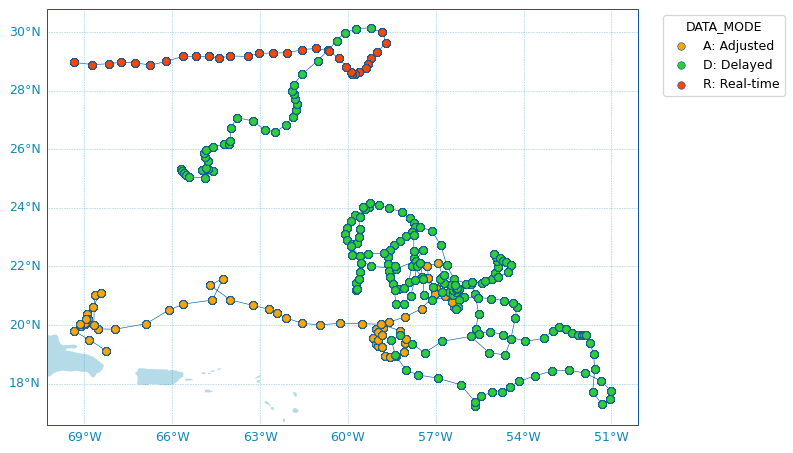
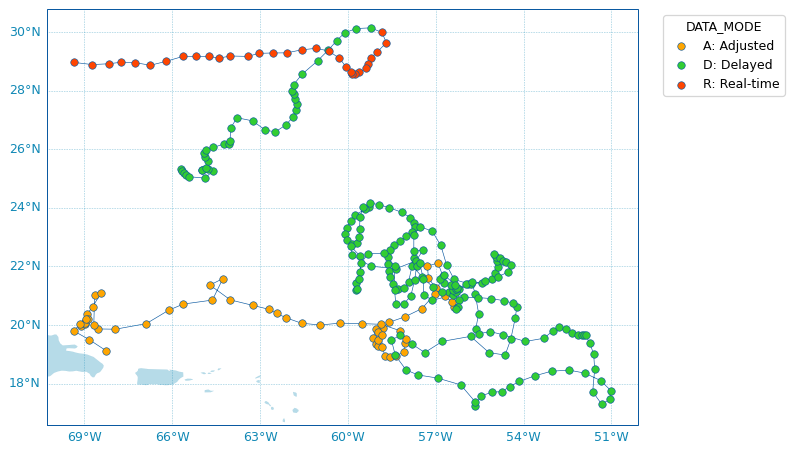
More doc

diff --git a/argopy/plot/plot.py b/argopy/plot/plot.py
@@ -315,12 +315,13 @@ def scatter_map(
         from argopy import DataFetcher
 
         ArgoSet = DataFetcher(mode='expert').float([6902771, 4903348]).load()
-        ds = ArgoSet.data
+        ds = ArgoSet.data.argo.point2profile()
         df = ArgoSet.index
 
         scatter_map(df)
-        scatter_map(ds, hue='DATA_MODE', traj_axis='PLATFORM_NUMBER')
-        scatter_map(ds, hue='PLATFORM_NUMBER', traj_axis='PLATFORM_NUMBER')
+        scatter_map(ds)
+        scatter_map(ds, hue='DATA_MODE')
+        scatter_map(ds, hue='PSAL_QC')
 
     ::
 
@@ -491,7 +492,7 @@ def scatter_map(
             'edgecolor': markeredgecolor,
             'linewidths': markeredgesize,
         }
-        if isinstance(data, pd.DataFrame):
+        if isinstance(data, pd.DataFrame) and not legend:
             scatter_opts['legend'] = False  # otherwise Pandas will add a legend even if we set legend=False
         sc = group.plot.scatter(
             x=x, y=y,

diff --git a/argopy/__init__.py b/argopy/__init__.py
@@ -28,6 +28,7 @@ from . import stores  # noqa: E402
 from . import errors  # noqa: E402
 from . import plot  # noqa: E402
 from .plot import dashboard  # noqa: E402
+from .plot import ArgoColors  # noqa: E402
 from .utilities import show_versions, show_options, clear_cache, lscache # noqa: E402
 from .utilities import TopoFetcher, ArgoNVSReferenceTables, OceanOPSDeployments  # noqa: E402
 from .utilities import monitor_status as status  # noqa: E402
@@ -55,6 +56,7 @@ __all__ = (
     "utilities",
     "errors",
     "plot",
+    "ArgoColors",
     # "plotters",  # Deprec, to be removed after 0.1.13
     "stores",
     "tutorial",

diff --git a/docs/conf.py b/docs/conf.py
@@ -134,7 +134,7 @@ release = argopy.__version__
 # This patterns also effect to html_static_path and html_extra_path
 exclude_patterns = ['_build', 'Thumbs.db', '.DS_Store', '_templates',
                     '.ipynb_checkpoints', '_ext', 'tempo_out', '_src',
-                    'offline', 'examples/.ipynb_checkpoints']
+                    'offline', 'examples/.ipynb_checkpoints', 'tryit.ipynb']
 
 # Give *lots* of time for notebook cell execution!
 # Note nbsphinx compiles *all* notebooks in docs unless excluded

diff --git a/docs/visualisation.rst b/docs/visualisation.rst
@@ -153,16 +153,20 @@ The :class:`argopy.plot.scatter_map` utility function is dedicated to making map
 
 Profiles colouring is finely tuned for some variables: QC flags, Data Mode and Deployment Status. By default, floats trajectories are always shown, but if the WMO is not given by a default wmo variable, it must be given as argument. The :class:`argopy.plot.scatter_map` function works with **argopy** :class:`xarray.Dataset` or :class:`pandas.DataFrame` data.
 
-Let's import this function, the usual suspects and some data to work with:
+Let's import this function, the usual suspects and some data to work with. Note that scatter_map is only available to a collection of profiles:
 
 .. code-block:: python
 
     from argopy.plot import scatter_map
     from argopy import DataFetcher as ArgoDataFetcher
+    from argopy import OceanOPSDeployments
 
     ArgoSet = ArgoDataFetcher(mode='expert').float([6902771, 4903348]).load()
-    ds = ArgoSet.data
+    ds = ArgoSet.data.argo.point2profiles()
     df = ArgoSet.index
+
+    df_deployment = OceanOPSDeployments([-90, 0, 0, 90]).to_dataframe()
+
 
 And see in the examples below how it can be used and tuned.
 
@@ -170,23 +174,57 @@ Use predefined Argo Colors
 ==========================
 The :class:`argopy.plot.scatter_map` function uses the :class:`argopy.plot.ArgoColors` utility class to better resolve discrete colormaps of known variables. The colormap is automatically guessed using the ``hue`` argument. Here are some examples.
 
-Parameter Data Mode
--------------------
+.. tabs::
 
-.. code-block:: python
+    .. tab:: Parameter Data Mode
 
-    scatter_map(ds, hue='DATA_MODE')
-    # scatter_map(ds, hue='DATA_MODE', traj_axis='PLATFORM_NUMBER', cmap='data_mode')
+        Using guess mode for arguments:
 
-.. image:: _static/scatter_map_datamode.png
+        .. code-block:: python
+
+            scatter_map(ds, hue='DATA_MODE')
+
+        or more explicitly:
+
+        .. code-block:: python
+
+            scatter_map(ds,
+                        x='LONGITUDE',
+                        y='LATITUDE',
+                        hue='DATA_MODE',
+                        cmap='data_mode',
+                        traj_axis='PLATFORM_NUMBER')
+
+        .. image:: _static/scatter_map_datamode.png
 
 
-QC flag
--------
+    .. tab:: QC flag
 
-.. code-block:: python
+        Since QC flags are given for each measurements, we need to select a specific depth levels for this plot:
 
-    scatter_map(ds, hue='PSAL_QC', traj_axis='PLATFORM_NUMBER')
-    # scatter_map(ds, hue='PSAL_QC', traj_axis='PLATFORM_NUMBER', cmap='qc')
+        .. code-block:: python
 
-.. image:: _static/scatter_map_qcflag.png
+            scatter_map(ds.isel(N_LEVELS=0), hue='PSAL_QC')
+
+        using guess mode for arguments, or more explicitly:
+
+        .. code-block:: python
+
+            scatter_map(ds.isel(N_LEVELS=0),
+                        x='LONGITUDE',
+                        y='LATITUDE',
+                        hue='PSAL_QC',
+                        cmap='qc',
+                        traj_axis='PLATFORM_NUMBER')
+
+        .. image:: _static/scatter_map_qcflag.png
+
+    .. tab:: Deployment status
+
+        For the deployment status, there is only one point for each float, so we can make a faster plot by not using the ``traj`` option.
+
+        .. code-block:: python
+
+            scatter_map(df_deployment, hue='status_code', traj=False)
+
+        .. image:: _static/scatter_map_deployment_status.png
